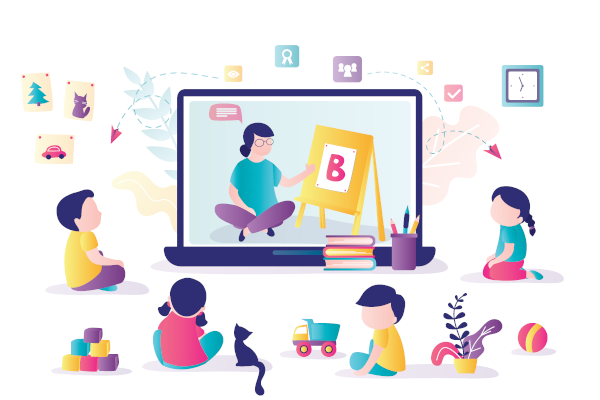
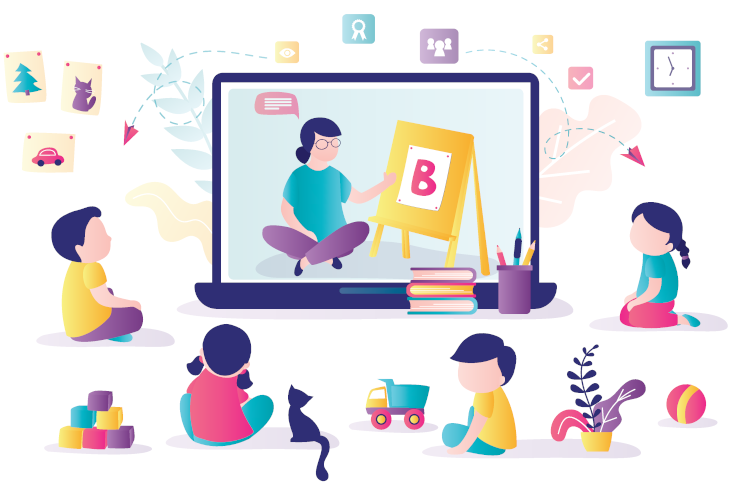
Add basic styles for hero section, adjust graphic

diff --git a/index.html b/index.html
@@ -25,10 +25,10 @@
 
     <main>
         <section class="hero">
-            <div class="container">
-                <div>
-                    <h2 class="hero-title">Education Re-imagined.</h2>
-                    <p class="hero-tagline">Software to inspire the next generation.</p>
+            <div class="container container-hero">
+                <div class="hero-text">
+                    <h2 class="hero-title">Education <br>Re-imagined.</h2>
+                    <p class="hero-tagline">Software to <span class="hero-tagline-emphasis">inspire the next generation.</span></p>
                 </div>
                 <img class="hero-image"src="assets/imgs/site/hero-graphic.png" alt="illustration of children sitting infront of screen showing teacher giving lesson">
             </div>

diff --git a/assets/css/style.css b/assets/css/style.css
@@ -26,11 +26,15 @@ body {
 
 .container {
     width: 90%;
-    max-width: 1080px;
+    max-width: 1480px;
     margin: 0 auto;
 }
 
 /* HEADER */
+
+header {
+    margin: .5em 0;
+}
 
 .container-header,
 nav ul {
@@ -66,4 +70,37 @@ nav li {
 nav a {
     text-decoration: none;
     color: inherit;
+}
+
+/* HERO */
+
+.hero {
+    padding: 1em 0;
+}
+
+.container-hero {
+    display: flex;
+    align-items: center;
+    justify-content: space-between;
+}
+
+.hero-text {
+    width: 40%;
+}
+
+.hero-title {
+    font-size: 4rem;
+    margin-bottom: .25em;
+}
+
+.hero-tagline {
+    font-size: 1.4rem;
+}
+
+.hero-tagline-emphasis {
+    font-weight: 700;
+}
+
+.hero-image {
+    width: 55%;
 }
